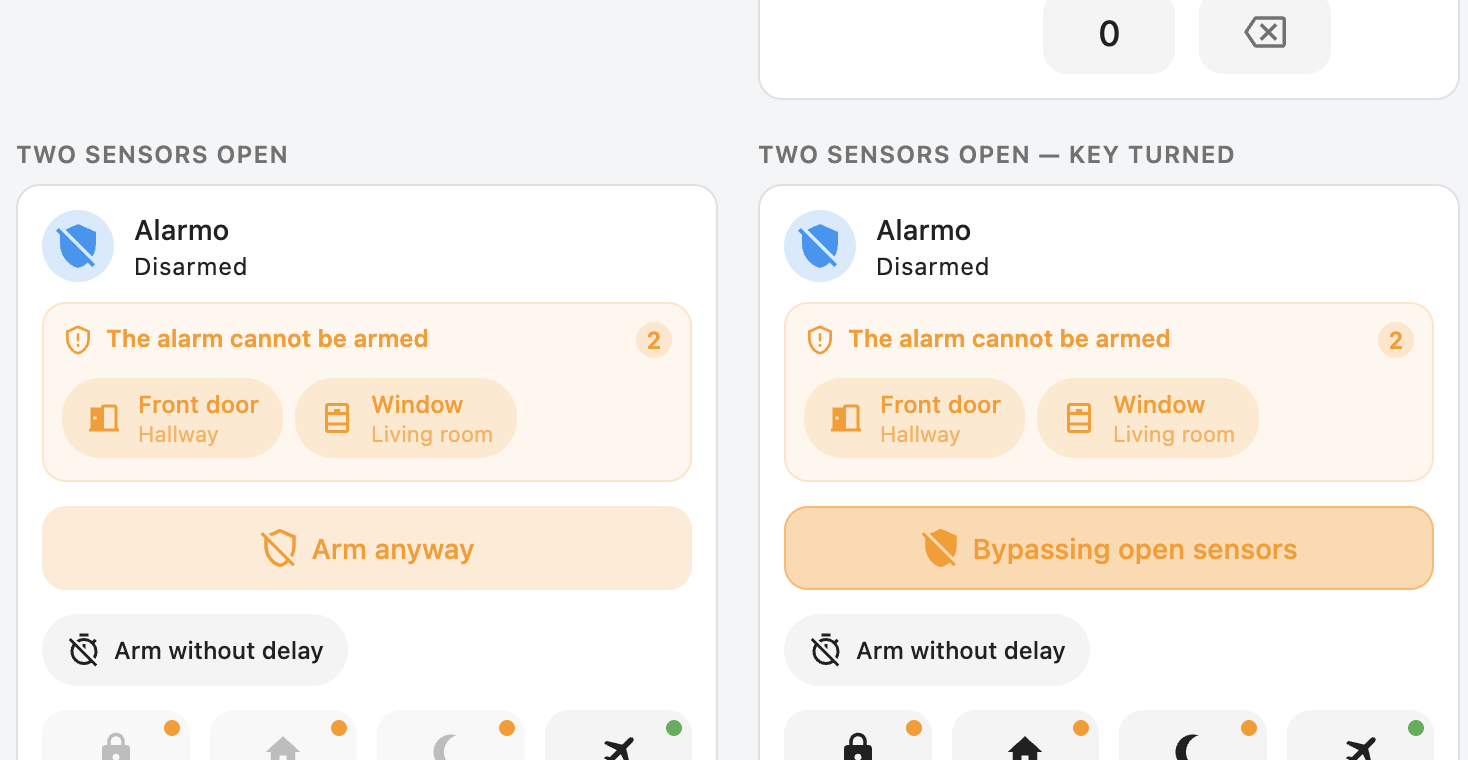
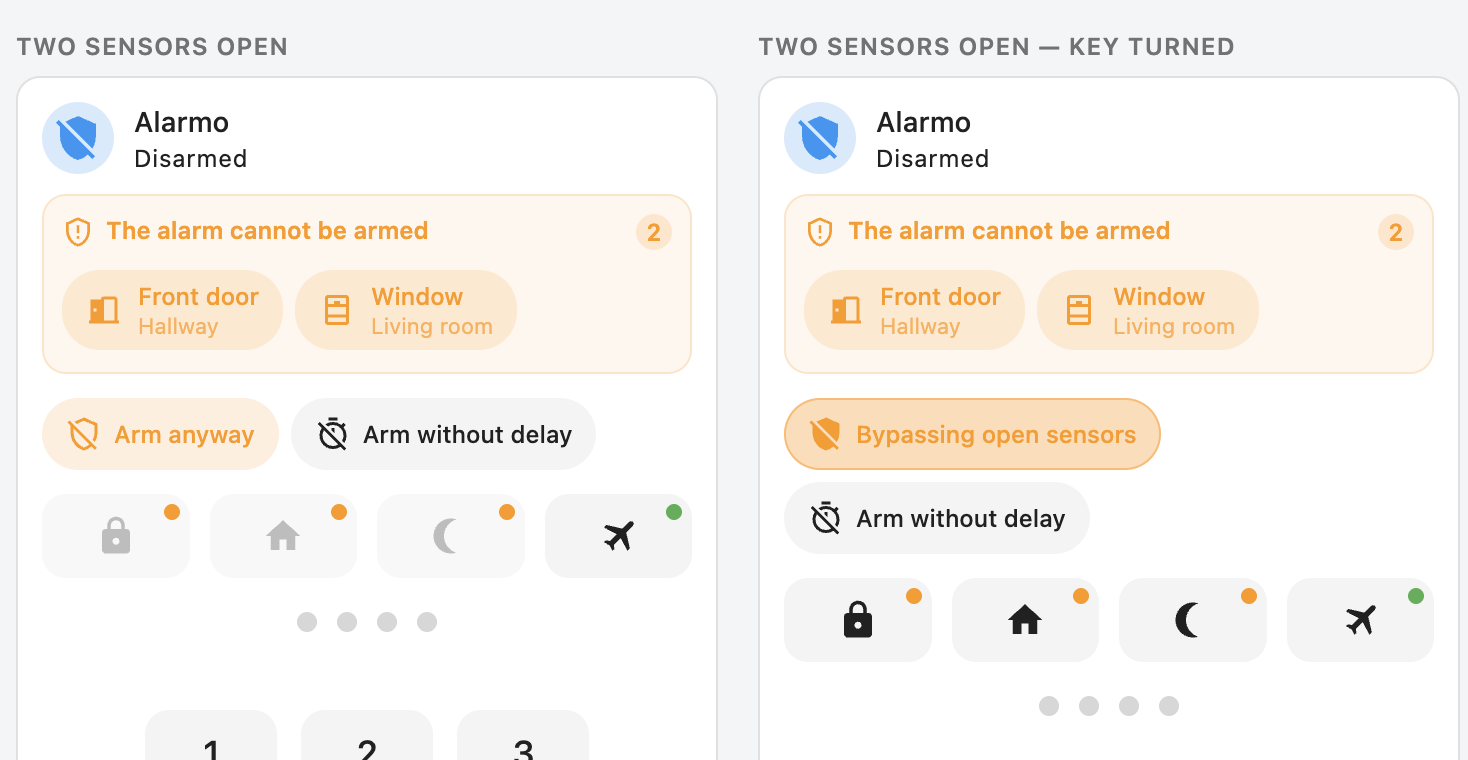
The key is a chip beside the shortcut, not a button above it
Arm anyway and Arm without delay are the same kind of thing: both say something
about the next arm rather than performing one. Drawn as a full-width button
above a small chip, they looked like a primary action and an afterthought. They
are one row of the same shape now.

The key keeps the warning colour in both states — a neutral chip sitting beside
an amber panel reads as unrelated to it — and deepens with a ring when turned
rather than going solid, since a solid fill needs a foreground colour no Home
Assistant theme defines.

Its turned label is short enough to sit on the same line as its neighbour, so
toggling the key no longer changes the card's height.

That also retires the notice-actions strip: with the key in the shortcut row,
nothing is left that needed a container of its own.

diff --git a/dist/alarmo-mushroom-card.js b/dist/alarmo-mushroom-card.js
@@ -15,7 +15,7 @@
 
   const CARD_TYPE = 'alarmo-mushroom-card';
   const EDITOR_TYPE = 'alarmo-mushroom-card-editor';
-  const CARD_VERSION = '0.1.10';
+  const CARD_VERSION = '0.1.11';
   const DOCS_URL = 'https://github.com/lucasgiovanny/alarmo-mushroom-card';
 
   /* ------------------------------------------------------------------ */
@@ -154,7 +154,7 @@
         bypassed_other: '{n} sensors are not being watched',
         sensor_open: 'Open', sensor_closed: 'Closed', sensor_bypassed: 'Bypassed',
         sensor_missing: 'No longer in Home Assistant',
-        action_bypass: 'Arm anyway', action_bypass_on: 'Bypassing open sensors',
+        action_bypass: 'Arm anyway', action_bypass_on: 'Sensors bypassed',
         action_retry: 'Arm now', more: '+{n} more'
       },
       sheet: {
@@ -232,7 +232,7 @@
         bypassed_other: '{n} sensores não estão sendo vigiados',
         sensor_open: 'Aberto', sensor_closed: 'Fechado', sensor_bypassed: 'Ignorado',
         sensor_missing: 'Não existe mais no Home Assistant',
-        action_bypass: 'Armar mesmo assim', action_bypass_on: 'Ignorando sensores abertos',
+        action_bypass: 'Armar mesmo assim', action_bypass_on: 'Sensores ignorados',
         action_retry: 'Armar agora', more: 'mais {n}'
       },
       sheet: {
@@ -310,7 +310,7 @@
         bypassed_other: '{n} sensores não estão a ser vigiados',
         sensor_open: 'Aberto', sensor_closed: 'Fechado', sensor_bypassed: 'Ignorado',
         sensor_missing: 'Já não existe no Home Assistant',
-        action_bypass: 'Armar mesmo assim', action_bypass_on: 'A ignorar sensores abertos',
+        action_bypass: 'Armar mesmo assim', action_bypass_on: 'Sensores ignorados',
         action_retry: 'Armar agora', more: 'mais {n}'
       },
       sheet: {
@@ -388,7 +388,7 @@
         bypassed_other: '{n} sensores no se están vigilando',
         sensor_open: 'Abierto', sensor_closed: 'Cerrado', sensor_bypassed: 'Omitido',
         sensor_missing: 'Ya no existe en Home Assistant',
-        action_bypass: 'Armar de todos modos', action_bypass_on: 'Omitiendo sensores abiertos',
+        action_bypass: 'Armar de todos modos', action_bypass_on: 'Sensores omitidos',
         action_retry: 'Armar ahora', more: '+{n} más'
       },
       sheet: {
@@ -466,7 +466,7 @@
         bypassed_other: '{n} capteurs ne sont pas surveillés',
         sensor_open: 'Ouvert', sensor_closed: 'Fermé', sensor_bypassed: 'Ignoré',
         sensor_missing: "N'existe plus dans Home Assistant",
-        action_bypass: 'Armer quand même', action_bypass_on: 'Capteurs ouverts ignorés',
+        action_bypass: 'Armer quand même', action_bypass_on: 'Capteurs ignorés',
         action_retry: 'Armer maintenant', more: '+{n} autres'
       },
       sheet: {
@@ -544,7 +544,7 @@
         bypassed_other: '{n} Sensoren werden nicht überwacht',
         sensor_open: 'Offen', sensor_closed: 'Geschlossen', sensor_bypassed: 'Übergangen',
         sensor_missing: 'Existiert nicht mehr in Home Assistant',
-        action_bypass: 'Trotzdem aktivieren', action_bypass_on: 'Offene Sensoren werden übergangen',
+        action_bypass: 'Trotzdem aktivieren', action_bypass_on: 'Sensoren übergangen',
         action_retry: 'Jetzt aktivieren', more: '+{n} weitere'
       },
       sheet: {
@@ -622,7 +622,7 @@
         bypassed_other: '{n} sensori non sono sorvegliati',
         sensor_open: 'Aperto', sensor_closed: 'Chiuso', sensor_bypassed: 'Escluso',
         sensor_missing: 'Non esiste più in Home Assistant',
-        action_bypass: 'Inserisci comunque', action_bypass_on: 'Sensori aperti esclusi',
+        action_bypass: 'Inserisci comunque', action_bypass_on: 'Sensori esclusi',
         action_retry: 'Inserisci ora', more: '+{n} altri'
       },
       sheet: {
@@ -1036,16 +1036,10 @@
     @supports (background:color-mix(in srgb,red 10%,transparent)){
       .notice{background-color:color-mix(in srgb,rgb(var(--amc-notice-rgb)) 8%,transparent)}
     }
-    /* The action strip carries the kind too, so a panel that has gone green
-       does not sit above a button still tinted with the warning colour. */
-    .notice[data-kind="blocked"],.notice-actions[data-kind="blocked"]{
-      --amc-notice-rgb:var(--amc-rgb-warning)}
-    .notice[data-kind="triggered"],.notice-actions[data-kind="triggered"]{
-      --amc-notice-rgb:var(--amc-rgb-danger)}
-    .notice[data-kind="bypassed"],.notice-actions[data-kind="bypassed"]{
-      --amc-notice-rgb:var(--amc-rgb-warning)}
-    .notice[data-kind="ready"],.notice-actions[data-kind="ready"]{
-      --amc-notice-rgb:var(--amc-rgb-success)}
+    .notice[data-kind="blocked"]{--amc-notice-rgb:var(--amc-rgb-warning)}
+    .notice[data-kind="triggered"]{--amc-notice-rgb:var(--amc-rgb-danger)}
+    .notice[data-kind="bypassed"]{--amc-notice-rgb:var(--amc-rgb-warning)}
+    .notice[data-kind="ready"]{--amc-notice-rgb:var(--amc-rgb-success)}
 
     .notice-head{
       display:flex;align-items:flex-start;gap:6px;
@@ -1137,27 +1131,6 @@
        (nielsfaber/alarmo-card#157, closed unfixed). */
     .notice[data-quiet] .notice-chips{display:none}
 
-    /* ---- bypass action: a sibling of the notice, never a child ---- */
-    .notice-actions{
-      display:flex;gap:var(--amc-spacing);
-      margin:0 var(--amc-control-spacing) var(--amc-control-spacing);
-    }
-    .bypass{
-      flex:1 1 0;
-      background-color:rgba(var(--amc-notice-rgb,var(--amc-rgb-warning)),0.2);
-      color:rgb(var(--amc-notice-rgb,var(--amc-rgb-warning)));
-      overflow:hidden;
-    }
-    .bypass:hover{background-color:rgba(var(--amc-notice-rgb,var(--amc-rgb-warning)),0.28)}
-    /* Turned, the key reads as held down rather than as a fresh invitation.
-       Raising the tint rather than going solid: a solid fill needs a foreground
-       colour no Home Assistant theme defines, and every fixed guess failed
-       contrast in one of the two modes. */
-    .bypass[data-on]{
-      background-color:rgba(var(--amc-notice-rgb),0.38);
-      box-shadow:inset 0 0 0 1px rgba(var(--amc-notice-rgb),0.5);
-    }
-
     /* ---- arm options ---- */
     .arm-options{
       display:flex;gap:6px;flex-wrap:wrap;
@@ -1177,6 +1150,21 @@
     .opt[data-on]{
       background-color:rgba(var(--amc-rgb-warning),0.2);
       color:rgb(var(--amc-rgb-warning));
+    }
+    /* The key wears the warning colour whether or not it is turned: what it
+       sets aside is a warning, and a neutral chip beside an amber panel reads
+       as unrelated to it. Turned, it deepens and gains a ring rather than
+       going solid — a solid fill needs a foreground colour no Home Assistant
+       theme defines, and every fixed guess failed contrast in one mode or the
+       other. */
+    .opt.bypass{
+      background-color:rgba(var(--amc-rgb-warning),0.16);
+      color:rgb(var(--amc-rgb-warning));
+    }
+    .opt.bypass:hover{background-color:rgba(var(--amc-rgb-warning),0.24)}
+    .opt.bypass[data-on]{
+      background-color:rgba(var(--amc-rgb-warning),0.34);
+      box-shadow:inset 0 0 0 1px rgba(var(--amc-rgb-warning),0.5);
     }
 
     /* ---- code entry ---- */
@@ -2134,7 +2122,7 @@
       if (this._config.layout === 'horizontal') {
         return '<ha-card class="' + cls + '">'
           + '<div class="hrow">' + this._headerHtml() + this._actionsHtml() + '</div>'
-          + this._noticeHtml() + this._noticeActionsHtml() + this._armOptionsHtml()
+          + this._noticeHtml() + this._armOptionsHtml()
           + tail + '</ha-card>';
       }
       /* Everywhere else the reason comes before the buttons it is about:
@@ -2142,7 +2130,7 @@
          it too late. */
       return '<ha-card class="' + cls + '">'
         + this._headerHtml()
-        + this._noticeHtml() + this._noticeActionsHtml() + this._armOptionsHtml()
+        + this._noticeHtml() + this._armOptionsHtml()
         + this._actionsHtml()
         + tail + '</ha-card>';
     }
@@ -2283,18 +2271,24 @@
     _armOptionsHtml() {
       const stateObj = this._stateObj();
       if (!stateObj || stateObj.state !== 'disarmed') return '';
-      /* Only the delay shortcut is left. Bypassing open sensors has no
-         pre-emptive form any more: the reactive one names the sensors it is
-         about to ignore, which the chip never could. */
-      if (!this._config.show_skip_delay_option) return '';
+      /* The key and the delay shortcut are the same kind of thing — both say
+         something about the next arm rather than performing one — so they read
+         as one row of the same shape. The key keeps the warning colour, because
+         what it sets aside is a warning. */
+      const withKey = this._bypassAvailable();
+      const withSkip = this._config.show_skip_delay_option;
+      if (!withKey && !withSkip) return '';
       /* Upstream buried these in a kebab menu pinned to the corner, which it
-         then had to hide below 250px. Two toggles fit on a line. */
+         then had to hide below 250px. Two chips fit on a line. */
       return [
         '<div class="arm-options">',
-
-        '<button class="opt" id="opt-skip" data-act="opt" data-opt="skip_delay">',
-        '<ha-icon icon="mdi:timer-off-outline"></ha-icon>',
-        '<span>' + esc(this._t('arm_options.skip_delay')) + '</span></button>',
+        withKey ? '<button class="opt bypass" id="bypass" data-act="bypass"'
+          + (this._unlocked() ? ' data-on' : '') + '>'
+          + '<ha-icon id="bypass-icon" icon="mdi:shield-off-outline"></ha-icon>'
+          + '<span id="bypass-label"></span></button>' : '',
+        withSkip ? '<button class="opt" id="opt-skip" data-act="opt" data-opt="skip_delay">'
+          + '<ha-icon icon="mdi:timer-off-outline"></ha-icon>'
+          + '<span>' + esc(this._t('arm_options.skip_delay')) + '</span></button>' : '',
         '</div>'
       ].join('');
     }
@@ -2421,23 +2415,6 @@
         '<span class="notice-count" id="notice-count"></span>',
         '</div>',
         shown.length ? '<div class="notice-chips">' + chips + more + '</div>' : '',
-        '</div>'
-      ].join('');
-    }
-
-    /* The bypass action is a sibling of the panel, never a child of it, so
-       show_messages can silence the list without taking away the only way to
-       arm past an open door (nielsfaber/alarmo-card#157). */
-    _noticeActionsHtml() {
-      if (!this._bypassAvailable()) return '';
-      return [
-        '<div class="notice-actions" data-kind="'
-          + esc(this._noticeKind() || 'blocked') + '">',
-        '<button class="control bypass" id="bypass" data-act="bypass"',
-        this._unlocked() ? ' data-on' : '', '>',
-        '<ha-icon id="bypass-icon" icon="mdi:shield-off-outline"></ha-icon>',
-        '<span class="label" id="bypass-label"></span>',
-        '</button>',
         '</div>'
       ].join('');
     }

diff --git a/docs/options-harness.html b/docs/options-harness.html
@@ -227,8 +227,13 @@ const CASES = [
         {sensors:{}, sensorCount:0});
       return !q(c,'.notice') || 'an empty sensor list has nothing to say'; }],
   ['show_skip_delay_option',false, () => { const c=card({show_skip_delay_option:false},'disarmed',{});
-      return (!q(c,'#opt-skip') && !q(c,'.arm-options'))
-        || 'the empty shortcut row should not be drawn at all'; }],
+      /* The key shares this row, and something is blocked here, so the row
+         itself stays — only the delay chip goes. */
+      return (!q(c,'#opt-skip') && !!q(c,'#bypass'))
+        || 'only the delay chip should go'; }],
+  [null,'an empty shortcut row is not drawn', () => {
+      const c=card({show_skip_delay_option:false,show_bypass_button:false},'disarmed',{});
+      return !q(c,'.arm-options') || 'a row with nothing in it should not exist'; }],
   ['max_sensor_chips',2, () => { const c=card({max_sensor_chips:2},'disarmed',{},null,'armed_away');
       return c.shadowRoot.querySelectorAll('.chip:not(.more)').length===2 && !!q(c,'.chip.more'); }],
   ['armed_away__button_label','Fora', () => q(card({states:{armed_away:{button_label:'Fora'}}},'disarmed',{}),'#mode-armed_away .label').textContent==='Fora'],

diff --git a/CHANGELOG.md b/CHANGELOG.md
@@ -1,5 +1,14 @@
 # Changelog
 
+## 0.1.11 - 2026-08-25
+
+- Changed the *Arm anyway* key from a full-width button into a chip beside *Arm without
+  delay*. The two are the same kind of thing — both say something about the next arm rather
+  than performing one — so they read as one row of the same shape. The key keeps the warning
+  colour: a neutral chip beside an amber panel reads as unrelated to it
+- The turned label is short enough not to push its neighbour onto a second line, so toggling
+  the key no longer changes the card's height
+
 ## 0.1.10 - 2026-08-25
 
 - Changed a mode that cannot be armed to be locked rather than left to fail. `blocked_modes`
